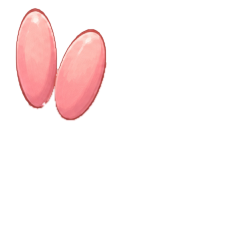
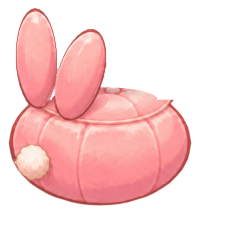
feat: reach a pouf from its side and seat a back-view sitter along the cushion
Owner, 2026-10-17: poufs pushed together or up to a table must still be sat on,
and a sitter seen from behind must rest on the cushion, not end in a cut line.

- A pouf's seat is reached from every side (item.json seat_access any_side):
  when another piece or the room edge takes its front spot, she walks to the
  first free side spot instead and still sits facing the pouf's way. Used by
  My Room hotspots and MiniRoom alike; chairs, sofas and beds keep their front.
- The two rotations seen from behind carry the cushion's near part in their
  front layer, so her bottom is cut along the cushion's curve with a soft
  contact shade; the straight cut moves down to where her sides end.
- Tests: facing poufs side by side, one and two cells apart are both
  reachable; a pouf pushed to the snack table is reachable; a chair keeps its
  front approach; the cushion covers a back-view sitter under her hip.

Changed region(s): [[0.0294, 0.3652, 0.8235, 0.913]]

diff --git a/apps/mobile/src/features/roomV2/furniture/layeredFurnitureOyun.test.ts b/apps/mobile/src/features/roomV2/furniture/layeredFurnitureOyun.test.ts
@@ -358,8 +358,8 @@ const OYUN_ROOM: { id: string; i: number; j: number; rotation: RoomFurnitureRota
   { id: "room_v3_bed_oyun_gingham", i: 2, j: 6, rotation: "front" },
   { id: "room_v3_nightstand_oyun_honey", i: 2, j: 11, rotation: "front" },
   { id: "room_v3_snacktable_oyun_round", i: 8, j: 8, rotation: "front" },
-  // the pouf faces the snack table; she walks in through the free cells between them
-  { id: "room_v3_pouf_oyun_bunnypink", i: 12, j: 8, rotation: "front" }
+  // the pouf is pushed up to the snack table it faces: she comes from its side
+  { id: "room_v3_pouf_oyun_bunnypink", i: 11, j: 8, rotation: "front" }
 ]
 
 test("a furnished Oyun room holds together: every piece valid beside the others, every seat reachable", () => {
@@ -376,18 +376,47 @@ test("a furnished Oyun room holds together: every piece valid beside the others,
   }
 })
 
-test("two poufs facing each other two cells apart: she can walk to both seats, one sitter faces us, the other rests on her cushion", () => {
+test("two poufs facing each other, side by side or one cell apart: she walks to both seats from their sides and faces the other", () => {
   for (const id of ["room_v3_pouf_oyun_bunnypink", "room_v3_pouf_oyun_bearpurple"]) {
     // "front" faces -X and "back" faces +X: the one at the larger i looks toward the other
-    const pieces = [onCell(id, 6, 8, "back"), onCell(id, 10, 8, "front")]
-    assert.ok(validateRoomV2FurniturePlacement({ scene: { shell: SHELL, renderItems: [pieces[0]!] }, candidate: pieces[1]! }).isValid, id)
-    const hotspots = createRoomWorldHotspotsFromRoomV2Scene({ shell: SHELL, renderItems: pieces })
-    assert.equal(hotspots.length, 2, id)
-    for (const hotspot of hotspots) assert.ok(canWalk(pieces, hotspot.approachPoint!), `${id} ${hotspot.id}: unreachable`)
-    const views = pieces.map((piece) => piece.layered25d!.seats[0]!)
+    for (const gap of [0, 1, 2]) {
+      const pieces = [onCell(id, 6, 8, "back"), onCell(id, 8 + gap, 8, "front")]
+      assert.ok(validateRoomV2FurniturePlacement({ scene: { shell: SHELL, renderItems: [pieces[0]!] }, candidate: pieces[1]! }).isValid, `${id} gap ${gap}`)
+      const hotspots = createRoomWorldHotspotsFromRoomV2Scene({ shell: SHELL, renderItems: pieces })
+      assert.equal(hotspots.length, 2, `${id} gap ${gap}`)
+      assert.notEqual(hotspots[0]!.facing, hotspots[1]!.facing, `${id} gap ${gap}: both face the same way`)
+      for (const hotspot of hotspots) assert.ok(canWalk(pieces, hotspot.approachPoint!), `${id} gap ${gap} ${hotspot.id}: unreachable`)
+    }
+    const views = [onCell(id, 6, 8, "back"), onCell(id, 8, 8, "front")].map((piece) => piece.layered25d!.seats[0]!)
     assert.deepEqual(views.map((seat) => seat.view).sort(), ["back", "front"], id)
-    // seen from behind she is cut just under her hip, so she sits on the cushion instead of hanging over it
-    const behind = views.find((seat) => seat.view === "back")!
-    assert.ok(behind.avatarClipBelowHip !== undefined && behind.avatarClipBelowHip > 0 && behind.avatarClipBelowHip < 0.003, `${id}: ${behind.avatarClipBelowHip}`)
+  }
+})
+
+test("seen from behind, a pouf sitter rests on the cushion: its near rim covers her from just under the hip", () => {
+  const raw = (id: string) => JSON.parse(readFileSync(join(__dirname, id, "item.json"), "utf8")) as {
+    rotations: Record<string, { seats: { avatar_view: string; hip_px: number[]; card_clip_below_px?: number }[] }>
+  }
+  for (const id of ["room_v3_pouf_oyun_bunnypink", "room_v3_pouf_oyun_bearpurple"]) {
+    for (const r of ["0", "1"]) {
+      const seat = raw(id).rotations[r]!.seats[0]!
+      assert.ok(seat.avatar_view.startsWith("back"), `${id} r${r}`)
+      const [hx, hy] = [Math.round(seat.hip_px[0]!), Math.round(seat.hip_px[1]!)]
+      const front = PNG.sync.read(readFileSync(join(__dirname, id, `r${r}_front.png`)))
+      const alpha = (x: number, y: number) => front.data[(y * front.width + x) * 4 + 3]!
+      assert.ok(alpha(hx, hy + 6) > 200, `${id} r${r}: the cushion covers her just under the hip`)
+      // the straight cut only trims what the cushion already covers
+      assert.ok(seat.card_clip_below_px! > hy + 6 && seat.card_clip_below_px! < hy + 30, `${id} r${r}`)
+      assert.ok(alpha(hx, Math.ceil(seat.card_clip_below_px!)) > 200, `${id} r${r}: covered at the cut`)
+    }
+  }
+})
+
+test("a chair keeps its front approach even when another piece stands there: only a pouf is reached from its side", () => {
+  const chair = onCell("room_v3_teaset_oyun_flower", 8, 8, "front")
+  assert.equal(chair.seatWorldPoints!.some((seat) => seat.alternativeApproaches), false)
+  for (const id of ["room_v3_pouf_oyun_bunnypink", "room_v3_pouf_oyun_bearpurple"]) {
+    for (const rotation of ROTATIONS) {
+      assert.equal(onCell(id, 8, 8, rotation).seatWorldPoints![0]!.alternativeApproaches?.length, 3, `${id} ${rotation}`)
+    }
   }
 })

diff --git a/apps/mobile/src/features/roomWorld/seatApproach.ts b/apps/mobile/src/features/roomWorld/seatApproach.ts
@@ -1,0 +1,86 @@
+import type { ResolvedRoomV2Scene, RoomPoint2D, RoomV2SeatWorldPoint } from "../roomV2/roomV2.types"
+import { getRoomWorldBlockerShape, type RoomWorldPoint } from "./roomWorldGeometry"
+import { ROOM_WORLD_AVATAR_COLLISION_CLEARANCE } from "./roomWorldRuntime"
+
+/** The free space she needs around a standing spot (stage metric), as the layered seats' own approach rule uses. */
+const SEAT_APPROACH_CLEARANCE = ROOM_WORLD_AVATAR_COLLISION_CLEARANCE * 1.05
+
+export interface SeatApproach {
+  approach: RoomPoint2D
+  exit: RoomPoint2D
+}
+
+/**
+ * Where she walks to sit on one seat in this scene. A seat reached from every side (a round pouf) keeps its front
+ * spot while it is free; when another piece stands on it (two poufs facing each other, a pouf pushed to a table) she
+ * comes from the first free side on the floor instead, and leaves the same way. Every other seat keeps its own spots.
+ */
+export function resolveSeatApproach(
+  seat: RoomV2SeatWorldPoint,
+  sourceRenderId: string,
+  scene: Pick<ResolvedRoomV2Scene, "renderItems" | "shell">
+): SeatApproach {
+  const own = { approach: { ...seat.approach }, exit: { ...seat.exit } }
+  if (!seat.alternativeApproaches?.length) return own
+  const metricY = scene.shell ? scene.shell.canvasSize.height / scene.shell.canvasSize.width : 1
+  const others = otherBlockerShapes(scene.renderItems, sourceRenderId)
+  const floor = scene.shell?.floorGrid?.outline
+  const onFloor = (point: RoomPoint2D) =>
+    !floor || (isInsidePolygon(point, floor) && edgeDistance(point, floor, metricY) >= SEAT_APPROACH_CLEARANCE)
+  const isFree = (point: RoomPoint2D) =>
+    onFloor(point) && others.every((shape) => metricDistanceToPolygon(point, shape, metricY) >= SEAT_APPROACH_CLEARANCE)
+  if (isFree(seat.approach)) return own
+  const side = seat.alternativeApproaches.find(isFree)
+  return side ? { approach: { ...side }, exit: { ...side } } : own
+}
+
+function otherBlockerShapes(
+  items: ResolvedRoomV2Scene["renderItems"],
+  sourceRenderId: string
+): RoomWorldPoint[][] {
+  return items.flatMap((item) => {
+    if (item.kind !== "furniture" || item.renderId === sourceRenderId || !item.blocksMovement) return []
+    if ((item.placementSurface ?? "floor") !== "floor") return []
+    const size = item.footprint ?? { width: item.width, height: item.height }
+    return [getRoomWorldBlockerShape({
+      id: item.renderId,
+      x: item.x,
+      y: item.y,
+      width: size.width,
+      height: size.height,
+      anchor: item.anchor,
+      ...(item.collisionPolygon ? { polygon: item.collisionPolygon } : {})
+    })]
+  })
+}
+
+function metricDistanceToPolygon(point: RoomPoint2D, polygon: readonly RoomWorldPoint[], metricY: number): number {
+  return isInsidePolygon(point, polygon) ? 0 : edgeDistance(point, polygon, metricY)
+}
+
+function edgeDistance(point: RoomPoint2D, polygon: readonly RoomWorldPoint[], metricY: number): number {
+  let best = Infinity
+  for (let index = 0; index < polygon.length; index += 1) {
+    const a = polygon[index]!
+    const b = polygon[(index + 1) % polygon.length]!
+    const dx = b.x - a.x
+    const dy = (b.y - a.y) * metricY
+    const px = point.x - a.x
+    const py = (point.y - a.y) * metricY
+    const t = Math.max(0, Math.min(1, (px * dx + py * dy) / (dx * dx + dy * dy || 1)))
+    best = Math.min(best, Math.hypot(px - t * dx, py - t * dy))
+  }
+  return best
+}
+
+function isInsidePolygon(point: RoomPoint2D, polygon: readonly RoomWorldPoint[]): boolean {
+  let inside = false
+  for (let index = 0, previous = polygon.length - 1; index < polygon.length; previous = index, index += 1) {
+    const a = polygon[index]!
+    const b = polygon[previous]!
+    if ((a.y > point.y) !== (b.y > point.y) && point.x < ((b.x - a.x) * (point.y - a.y)) / (b.y - a.y) + a.x) {
+      inside = !inside
+    }
+  }
+  return inside
+}

diff --git a/apps/mobile/src/features/roomV2/furniture/layeredFurniture.ts b/apps/mobile/src/features/roomV2/furniture/layeredFurniture.ts
@@ -88,6 +88,8 @@ export interface LayeredFurnitureRotation {
 
 export interface LayeredFurnitureSpec {
   id: string
+  /** `item.json` `seat_access`: "any_side" for a seat reached from every side (a round pouf); else from its front only. */
+  seatAccess?: "any_side"
   /** Sprite px per shell px (zoom 1), `item.json` `scale`: 1.03 for the D armchair, 2.0 for the D sofa. */
   scale: number
   cell: number
@@ -192,7 +194,14 @@ export function parseLayeredFurnitureSpec(raw: unknown): LayeredFurnitureSpec {
     const ids = rotations[r].seats.map((seat) => seat.id)
     if (new Set(ids).size !== ids.length) throw new Error(`rotations.${r}.seats ids must be unique`)
   }
-  return { id, scale, cell: finite(footprint.cell, "footprint.cell"), rotations: cameraSideEdgeSeats(root, rotations) }
+  if (root.seat_access !== undefined && root.seat_access !== "any_side") throw new Error("seat_access must be any_side")
+  return {
+    id,
+    scale,
+    cell: finite(footprint.cell, "footprint.cell"),
+    rotations: cameraSideEdgeSeats(root, rotations),
+    ...(root.seat_access === "any_side" ? { seatAccess: "any_side" as const } : {})
+  }
 }
 
 /** A bed (`sit_edge`) is sat on from whichever long edge faces the camera (layeredEdgeSeats). */
@@ -339,7 +348,7 @@ export function calibrateLayeredFurnitureRenderItem(
     floorBox: placed,
     renderOffset: { x: drawPoint.x - item.x, y: drawPoint.y - item.y },
     seatWorldPoints: rotation.seats.map((s, index) => ({
-      ...layeredSeatWorldPoint(s, placed, centre, diamond, c),
+      ...layeredSeatWorldPoint(s, placed, centre, diamond, c, spec.seatAccess === "any_side"),
       drawRank: drawOrder.indexOf(index)
     })),
     layered25d: {
@@ -355,7 +364,8 @@ function layeredSeatWorldPoint(
   placed: FloorBox,
   centre: FloorPoint,
   footprint: RoomPoint2D[],
-  c: RoomCalibration
+  c: RoomCalibration,
+  anySide: boolean
 ): RoomV2SeatWorldPoint {
   // the seat point is the floor point under the hip (walking and the seat hotspot live on the floor); the hip is
   // `seatHeight` (a stage share) straight above it on screen
@@ -374,8 +384,24 @@ function layeredSeatWorldPoint(
     seatHeight: (seat.hipWorld[1] * verticalPxPerUnit(c)) / c.canvas.height,
     seat: roundStage(underHip),
     approach: cellCentre(seat.approachCell),
-    exit: cellCentre(seat.exitCell)
+    exit: cellCentre(seat.exitCell),
+    ...(anySide ? { alternativeApproaches: sideApproaches(facing, placed, footprint, c) } : {})
   }
+}
+
+/**
+ * Spots beside a seat reached from every side: left, right, then behind her facing, each just off the piece's
+ * footprint and stepped out along that side until she may stand there.
+ */
+function sideApproaches(facing: FloorPoint, placed: FloorBox, footprint: RoomPoint2D[], c: RoomCalibration): RoomPoint2D[] {
+  const centre: FloorPoint = { x: (placed.minX + placed.maxX) / 2, z: (placed.minZ + placed.maxZ) / 2 }
+  const half = { x: (placed.maxX - placed.minX) / 2, z: (placed.maxZ - placed.minZ) / 2 }
+  const sides: FloorPoint[] = [{ x: -facing.z, z: facing.x }, { x: facing.z, z: -facing.x }, { x: -facing.x, z: -facing.z }]
+  return sides.map((side) => {
+    const reach = Math.abs(side.x) * half.x + Math.abs(side.z) * half.z + c.cell / 2
+    const start = { x: centre.x + side.x * reach, z: centre.z + side.z * reach }
+    return roundStage(floorToStageFraction(c, clearOfFootprint(start, side, footprint, c, placed)))
+  })
 }
 
 function layeredSeatArt(

diff --git a/apps/mobile/src/features/roomWorld/roomWorldRoomV2Projection.ts b/apps/mobile/src/features/roomWorld/roomWorldRoomV2Projection.ts
@@ -14,6 +14,7 @@ import {
   ROOM_WORLD_SEATED_RENDER_DEPTH_EPSILON
 } from "./roomWorldGeometry"
 import { roomAvatar25d } from "../../features/avatar/roomAvatarSeam"
+import { resolveSeatApproach } from "./seatApproach"
 
 /** 2.5D room calibration; null in every other bundle (the walk floor stays as shipped). */
 const roomCalibration = roomAvatar25d.roomCalibration
@@ -66,21 +67,24 @@ export function createRoomWorldHotspotsFromRoomV2Scene(
     .filter(isSeatFurnitureRenderItem)
     .flatMap((item) => {
       if (item.seatSpec) {
-        return (item.seatWorldPoints ?? []).map((seatPoint) => ({
-          id: `${item.renderId}:${seatPoint.id}`,
-          seatId: seatPoint.id,
-          kind: "seat" as const,
-          x: seatPoint.seat.x,
-          y: seatPoint.seat.y,
-          facing: seatPoint.facing,
-          seatHeight: seatPoint.seatHeight,
-          // sitters on one piece draw far to near (layered pieces carry `drawRank`)
-          renderDepth: item.depth + ROOM_WORLD_SEATED_RENDER_DEPTH_EPSILON +
-            (seatPoint.drawRank ?? 0) * SEATED_DRAW_RANK_DEPTH_STEP,
-          approachPoint: { ...seatPoint.approach },
-          exitPoint: { ...seatPoint.exit },
-          sourceRenderId: item.renderId
-        }))
+        return (item.seatWorldPoints ?? []).map((seatPoint) => {
+          const { approach, exit } = resolveSeatApproach(seatPoint, item.renderId, scene)
+          return {
+            id: `${item.renderId}:${seatPoint.id}`,
+            seatId: seatPoint.id,
+            kind: "seat" as const,
+            x: seatPoint.seat.x,
+            y: seatPoint.seat.y,
+            facing: seatPoint.facing,
+            seatHeight: seatPoint.seatHeight,
+            // sitters on one piece draw far to near (layered pieces carry `drawRank`)
+            renderDepth: item.depth + ROOM_WORLD_SEATED_RENDER_DEPTH_EPSILON +
+              (seatPoint.drawRank ?? 0) * SEATED_DRAW_RANK_DEPTH_STEP,
+            approachPoint: approach,
+            exitPoint: exit,
+            sourceRenderId: item.renderId
+          }
+        })
       }
 
       const seatPoints = item.seatPoints?.length

diff --git a/apps/mobile/src/features/miniRoom/scene/miniRoomLayeredSeats.ts b/apps/mobile/src/features/miniRoom/scene/miniRoomLayeredSeats.ts
@@ -5,6 +5,7 @@ import type {
 } from "../../roomV2/roomV2.types"
 import type { RoomWorldOccupant } from "../../roomWorld/roomWorldRuntime"
 import type { AvatarState, RoomPoint } from "./miniRoomSceneTypes"
+import { resolveSeatApproach } from "../../roomWorld/seatApproach"
 
 /**
  * MiniRoom on furniture drawn from room-camera layers (2.5D room calibration only; no layered piece
@@ -60,7 +61,7 @@ export function createMiniRoomLayeredSeats(scene: ResolvedRoomV2Scene | undefine
         piece: item,
         art,
         seat: { x: point.seat.x, y: point.seat.y },
-        approach: { x: point.approach.x, y: point.approach.y },
+        approach: resolveSeatApproach(point, item.renderId, scene).approach,
         seatHeight: point.seatHeight,
         drawRank: point.drawRank ?? 0
       }

diff --git a/apps/mobile/src/features/roomV2/roomV2.types.ts b/apps/mobile/src/features/roomV2/roomV2.types.ts
@@ -264,6 +264,11 @@ export interface RoomV2SeatWorldPoint {
   approach: RoomAnchor
   exit: RoomAnchor
   /**
+   * A seat she may also reach from its sides or back (a round pouf): spots beside the piece, tried in order when
+   * another piece stands on `approach` (two poufs facing each other, a pouf at a table). She still sits facing `facing`.
+   */
+  alternativeApproaches?: RoomAnchor[]
+  /**
    * Layered pieces: this seat's place in the far-to-near draw order of the piece's sitters
    * (0 = drawn first). Unset: every seat of the piece draws at the same depth.
    */
